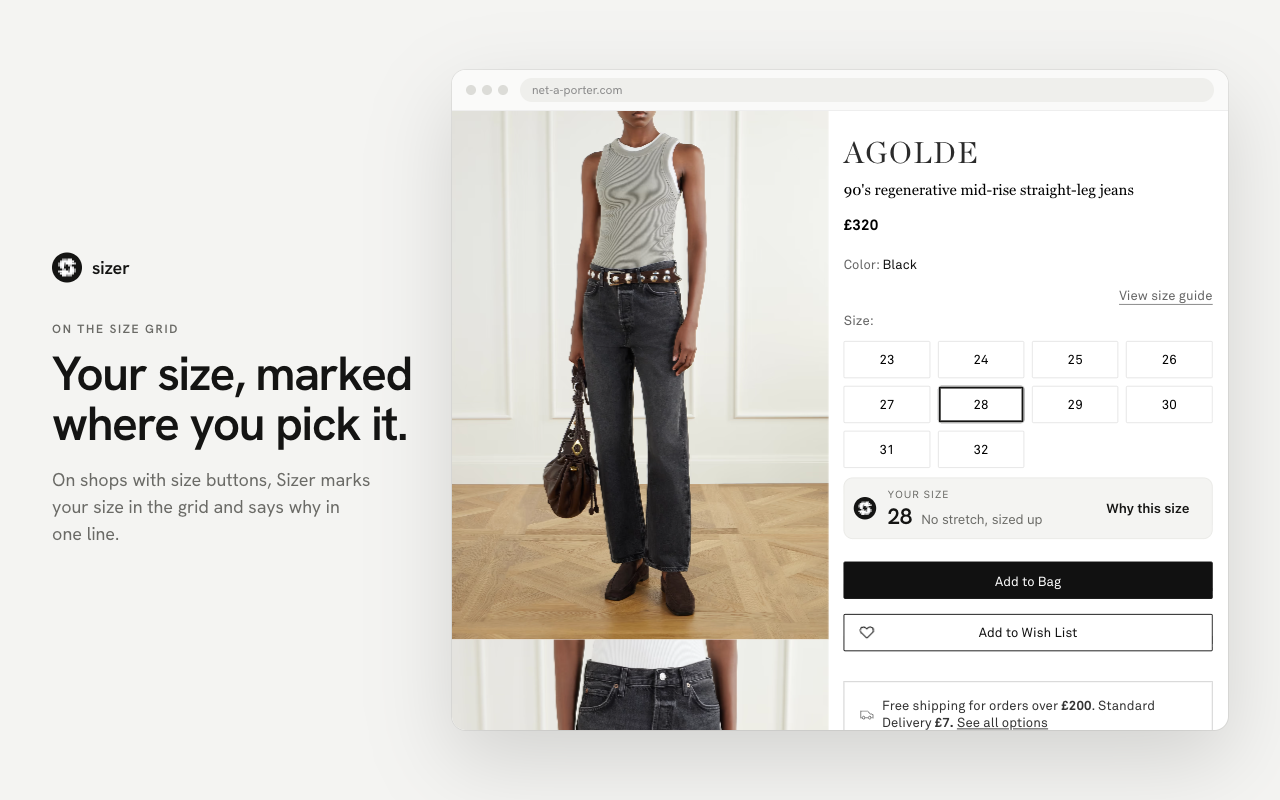
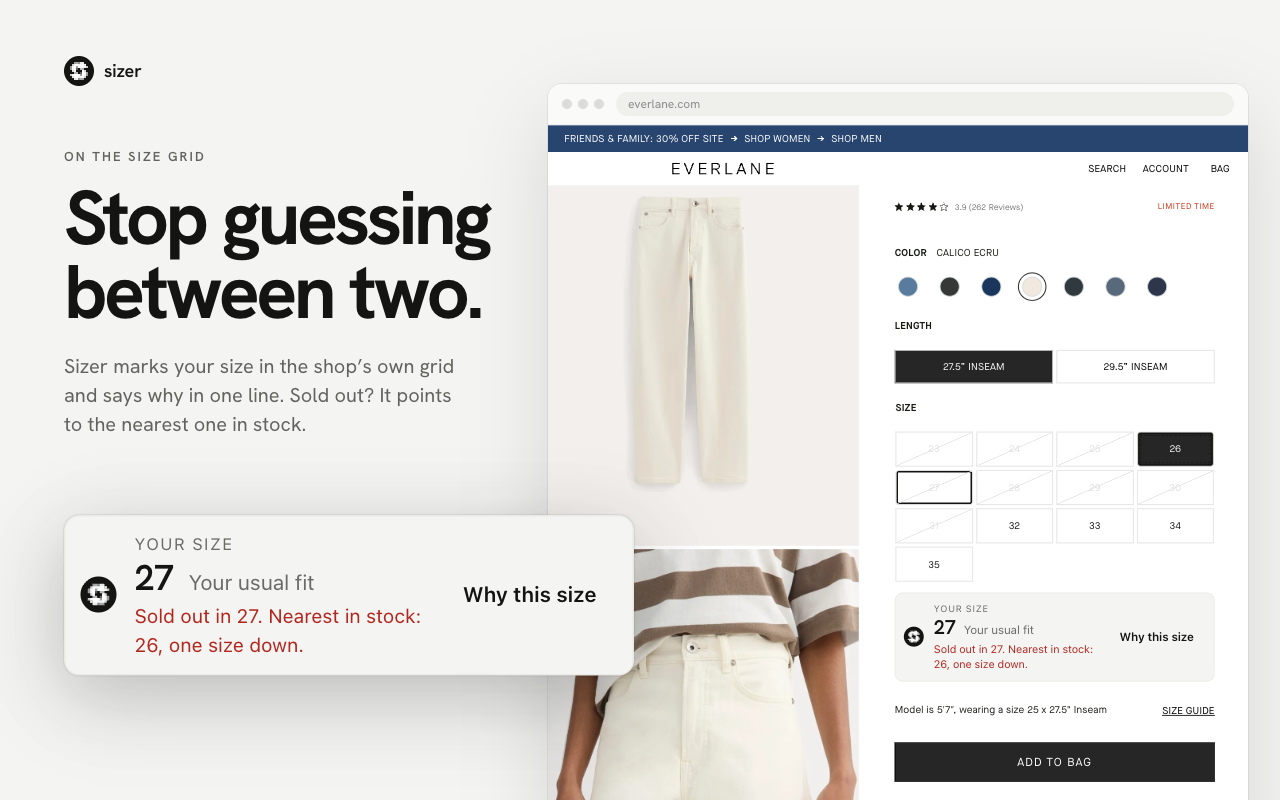
Store images lead with ordering one size, with Sizer's own answer magnified

diff --git a/store/frames.html b/store/frames.html
@@ -7,118 +7,161 @@
     Store and launch imagery at 1280×800. ?n=1..5 picks the screenshot, ?kind=promo|marquee|thumb the tiles
     (thumb is the 240 px Product Hunt thumbnail).
     Shots 1 to 4 frame a real shop page with Sizer running (store/render/, built by
-    tools/render-shop.py from the saved pages), zoomed onto the product details so the size reads at
-    a glance. Each crop starts below the shop's header, so no shop logo is in the picture; anything
-    personal that falls inside a crop (a seller's name) is blurred.
+    tools/render-shop.py from the saved pages), zoomed onto the product details. Each crop starts below
+    the shop's header, so no shop logo is in the picture; anything personal that falls inside a crop (a
+    seller's name) is blurred. The large card over the window is Sizer's own answer on that page,
+    copied from the page as it rendered and magnified, never retyped, so the picture says only what
+    Sizer said.
   -->
   <link rel="stylesheet" href="../ui/fonts.css">
   <style>
     :root {
-      --fog: #f4f4f2; --graphite: #141413; --muted: #6a6a66; --hair: #e9e9e6; --accent: #141413;
+      --fog: #f4f4f2; --graphite: #141413; --muted: #62625e; --hair: #e9e9e6; --accent: #141413;
       --sans: "Hanken Grotesk", "Helvetica Neue", Helvetica, Arial, sans-serif;
     }
     html, body { margin: 0; background: var(--fog); color: var(--graphite); font: 16px/1.5 var(--sans); -webkit-font-smoothing: antialiased; }
-    .frame { width: 1280px; height: 800px; display: grid; grid-template-columns: 360px 776px; gap: 40px; align-items: center; padding: 0 52px 0 52px; box-sizing: border-box; overflow: hidden; }
-    .mark { display: inline-grid; place-items: center; width: 30px; height: 30px; border-radius: 50%; background: var(--accent); overflow: hidden; vertical-align: middle; }
+    .frame { position: relative; width: 1280px; height: 800px; overflow: hidden; background: var(--fog); }
+    .frame.ink { background: var(--graphite); color: var(--fog); }
+    .brand { position: absolute; left: 64px; top: 56px; display: flex; align-items: center; gap: 10px; font: 600 18px/1 var(--sans); letter-spacing: -.01em; }
+    .mark { display: inline-grid; place-items: center; width: 30px; height: 30px; border-radius: 50%; background: var(--accent); overflow: hidden; }
+    .ink .mark { background: var(--fog); }
     .mark img { width: 28px; height: 28px; display: block; }
-    .word { font: 600 18px/1 var(--sans); letter-spacing: -.01em; margin-left: 10px; vertical-align: middle; }
-    .eyebrow { margin-top: 40px; font: 600 12px/1 var(--sans); letter-spacing: .14em; text-transform: uppercase; color: var(--muted); }
-    h1 { font: 600 48px/1.04 var(--sans); letter-spacing: -.03em; margin: 14px 0 18px; text-wrap: balance; }
-    p { margin: 0; font-size: 18px; line-height: 1.5; color: var(--muted); max-width: 340px; text-wrap: pretty; }
-    .window { width: 776px; height: 660px; background: #fff; border-radius: 14px; box-shadow: 0 30px 80px rgba(28, 27, 24, .16), 0 0 0 1px rgba(28, 27, 24, .07); overflow: hidden; position: relative; }
+    .ink .mark img { filter: invert(1); }
+    .copy { position: absolute; left: 64px; top: 150px; width: 452px; }
+    .eyebrow { font: 600 13px/1 var(--sans); letter-spacing: .16em; text-transform: uppercase; color: var(--muted); }
+    .ink .eyebrow, .ink p { color: #a9a9a3; }
+    h1 { font: 700 76px/.97 var(--sans); letter-spacing: -.048em; margin: 18px 0 24px; text-wrap: balance; }
+    p { margin: 0; font-size: 20px; line-height: 1.45; color: var(--muted); max-width: 400px; text-wrap: pretty; }
+    .window { position: absolute; left: 548px; top: 84px; width: 700px; height: 780px; background: #fff; border-radius: 14px; box-shadow: 0 30px 80px rgba(28, 27, 24, .14), 0 0 0 1px rgba(28, 27, 24, .07); overflow: hidden; }
     .chrome { height: 40px; border-bottom: 1px solid #eee; display: flex; align-items: center; padding: 0 14px; gap: 12px; font-size: 12px; color: #8a8a8a; background: #fafaf9; }
     .dots { display: flex; gap: 6px; } .dots i { width: 10px; height: 10px; border-radius: 50%; background: #dcdcd8; display: block; }
     .url { flex: 1; height: 24px; border-radius: 12px; background: #efefec; display: flex; align-items: center; padding: 0 12px; }
     .view { position: absolute; top: 41px; left: 0; right: 0; bottom: 0; overflow: hidden; }
     .view iframe { border: 0; position: absolute; top: 0; left: 0; transform-origin: 0 0; }
-    .view img { width: 100%; display: block; }
+    /* Sizer's answer from the page, magnified. */
+    .loupe { position: absolute; transform-origin: 0 0; opacity: 0; filter: drop-shadow(0 14px 26px rgba(20, 20, 19, .22)) drop-shadow(0 0 .6px rgba(20, 20, 19, .25)); }
+    .loupe.on { opacity: 1; }
+
+    .wall { position: absolute; left: 600px; top: 0; bottom: 0; width: 640px; display: flex; flex-wrap: wrap; align-content: center; gap: 6px 26px; font: 600 34px/1.25 var(--sans); letter-spacing: -.03em; }
+    .wall span { color: #5a5a55; white-space: nowrap; }
+    .wall span.b { color: var(--fog); }
+    .facts { position: absolute; left: 64px; bottom: 64px; display: flex; gap: 28px; font: 600 15px/1 var(--sans); color: var(--fog); }
+    .facts span::before { content: ""; display: inline-block; width: 6px; height: 6px; border-radius: 50%; background: var(--fog); margin-right: 10px; vertical-align: middle; }
 
     .tile { width: 440px; height: 280px; background: var(--accent); color: var(--fog); display: flex; flex-direction: column; justify-content: center; padding: 0 40px; box-sizing: border-box; }
     .tile .logo { width: 72px; height: 72px; display: block; }
     .marquee .logo { width: 120px; height: 120px; }
-    .tile .t { font: 600 34px/1.08 var(--sans); letter-spacing: -.015em; margin-top: 22px; }
+    .tile .t { font: 700 38px/1.02 var(--sans); letter-spacing: -.04em; margin-top: 22px; }
     .marquee { width: 1400px; height: 560px; padding: 0 110px; }
-    .marquee .t { font-size: 64px; max-width: 900px; }
+    .marquee .t { font-size: 76px; max-width: 900px; }
     .thumb { width: 240px; height: 240px; display: grid; place-items: center; background: var(--accent); }
     .thumb img { width: 176px; height: 176px; display: block; }
-    .marquee .sub { font-size: 21px; opacity: .8; margin-top: 18px; max-width: 760px; }
+    .marquee .sub { font-size: 22px; opacity: .8; margin-top: 20px; max-width: 760px; }
   </style>
 </head>
 <body>
   <script>
     const q = new URLSearchParams(location.search);
-    // [eyebrow, title, line, page, address bar, crop]. The crop is in the page's own pixels at a
-    // 1280 px wide window: x and y of the top left corner, and the width shown.
+    // [eyebrow, title, line, page, address bar, crop, loupe]. The crop is in the page's own pixels at a
+    // 1280 px wide window: x and y of the top left corner, and the width shown. The loupe copies one of
+    // Sizer's elements from the page (its id), lays it out w wide and sets it at `scale` with its top left
+    // at x, y in the frame.
     const FRAMES = {
-      1: ['On any product page', 'Your size, right under the size picker.', 'Sizer reads the brand’s chart, the fabric and the page’s fit notes. When your size is sold out, it names the nearest ones in stock.',
-          'render/zalando.html', 'zalando.co.uk', { x: 330, y: 236, w: 930 }],
-      2: ['Why this size', 'Every answer shows its working.', 'The pieces you own, the stretch, what the page and its buyers say, in plain words, with what moved the size.',
-          'render/asos.html', 'asos.com', { x: 300, y: 200, w: 980, open: 'why' }],
-      3: ['On the size grid', 'Your size, marked where you pick it.', 'On shops with size buttons, Sizer marks your size in the grid and says why in one line.',
-          'render/nap.html', 'net-a-porter.com', { x: 450, y: 140, w: 830 }],
-      4: ['Second-hand on Vinted', 'Does it fit? Checked against what you own.', 'Sizer reads the seller’s measurements and compares them with a piece you already wear. Missing one, it writes the message to ask.',
-          'render/items/vinted-store.html', 'vinted.co.uk', { x: 380, y: 640, w: 900, hide: ['[data-testid*="profile-username"]'], css: '[itemprop="description"] > div { max-height: none !important; } [itemprop="description"] > button { display: none !important; } .details-list--actions { display: none !important; } [class*="skeleton" i], [class*="placeholder" i] { visibility: hidden !important; }' }],
-      5: ['Your fit profile', 'Set up once, in under a minute.', 'Add your measurements, clothes that already fit, or both. Everything stays in your browser.',
-          'out/_options.png', 'Sizer · Your fit profile', null],
+      1: ['Before you add to bag', 'Order one size. Not two.', 'Sizer reads the brand’s chart, the fabric and the page’s fit notes, and puts your size right under the size picker.',
+          'render/zalando.html', 'zalando.co.uk', { x: 330, y: 236, w: 930 }, { id: 'sizer-inline', x: 404, y: 504, w: 400, scale: 1.6 }],
+      2: ['Why this size', 'Know why before you buy.', 'Every answer shows its working: the pieces you own, the stretch, what the page and its buyers say, and what moved the size.',
+          'render/asos.html', 'asos.com', { x: 300, y: 200, w: 980, open: 'why' }, null],
+      3: ['On the size grid', 'Stop guessing between two.', 'Sizer marks your size in the shop’s own grid and says why in one line. Sold out? It points to the nearest one in stock.',
+          'render/everlane-store.html', 'everlane.com', { x: 420, y: 130, w: 840 }, { id: 'sizer-inline', x: 64, y: 500, w: 380, scale: 1.5 }],
+      4: ['Second-hand', 'No returns? Check the fit first.', 'Sizer reads the seller’s measurements and checks them against a piece you already wear. Missing one, it writes the message to ask.',
+          'render/items/vinted-store.html', 'vinted.co.uk', { x: 380, y: 640, w: 900, hide: ['[data-testid*="profile-username"]'], css: '[itemprop="description"] > div { max-height: none !important; } [itemprop="description"] > button { display: none !important; } .details-list--actions { display: none !important; } [class*="skeleton" i], [class*="placeholder" i] { visibility: hidden !important; }' },
+          { id: 'sizer-inline', x: 420, y: 508, w: 330, scale: 1.65 }],
     };
+    // Shops Sizer runs on by itself (the manifest) and was checked on, on real product pages.
+    const SHOPS = ['Amazon', 'Zalando', 'ASOS', 'Zara', 'Vinted', 'eBay', 'Nordstrom', 'Net-a-Porter', 'Revolve', 'Selfridges', 'John Lewis', 'Urban Outfitters', 'Reformation', 'Madewell', 'Anthropologie', 'J.Crew', 'Aritzia', 'Everlane', 'Shopbop', 'SSENSE', 'Depop', 'Poshmark', 'Nike', 'Old Navy', 'Hollister', 'Express', 'Massimo Dutti', 'Pull&Bear', 'Bershka', 'Princess Polly', 'PrettyLittleThing', 'Fashion Nova'];
+    const BRIGHT = new Set(['Amazon', 'Zalando', 'ASOS', 'Zara', 'Vinted', 'eBay', 'Nordstrom', 'Revolve']);
+    const brand = '<div class="brand"><span class="mark"><img src="../brand/mark.svg" alt=""></span>sizer</div>';
     const kind = q.get('kind');
+    const n = q.get('n') || '1';
     if (kind === 'thumb') {
       document.write('<div class="thumb"><img src="../brand/logo.png" alt=""></div>');
     } else if (kind === 'promo' || kind === 'marquee') {
       document.write(`<div class="tile ${kind === 'marquee' ? 'marquee' : ''}"><img class="logo" src="../brand/logo.png" alt="">
-        <div class="t">Your size, on every product page.</div>
+        <div class="t">Order one size. Not two.</div>
         ${kind === 'marquee' ? '<div class="sub">Sizer reads the brand, the fabric and the fit notes, and puts your size under the size picker.</div>' : ''}</div>`);
-    } else {
-      const [eyebrow, title, sub, src, url, crop] = FRAMES[q.get('n') || 1];
-      document.write(`<div class="frame">
-        <div><span class="mark"><img src="../brand/mark.svg" alt=""></span><span class="word">sizer</span>
-          <div class="eyebrow">${eyebrow}</div><h1>${title}</h1><p>${sub}</p></div>
-        <div class="window"><div class="chrome"><div class="dots"><i></i><i></i><i></i></div><div class="url">${url}</div></div>
-          <div class="view">${crop ? `<iframe src="${src}" title="Preview" scrolling="no"></iframe>` : `<img src="${src}" alt="">`}</div></div>
+    } else if (n === '5') {
+      document.write(`<div class="frame ink">${brand}
+        <div class="copy"><div class="eyebrow">Your fit profile</div><h1>Set up once. Sized on 60+ shops.</h1>
+          <p>Add your measurements, clothes that already fit, or both. It takes a minute.</p></div>
+        <div class="wall">${SHOPS.map((s) => `<span class="${BRIGHT.has(s) ? 'b' : ''}">${s}</span>`).join('')}</div>
+        <div class="facts"><span>Free</span><span>No account</span><span>Your profile stays in your browser</span></div>
       </div>`);
-      if (crop) {
-        const view = document.querySelector('.view');
-        const frame = document.querySelector('iframe');
-        const s = view.clientWidth / crop.w;
-        // The page lays out at 1280 wide; the window shows crop.w of it, from crop.x, so fixed
-        // panels (the reasoning sheet) stay inside the visible part.
-        Object.assign(frame.style, { width: `${crop.x + crop.w}px`, height: `${view.clientHeight / s}px`, transform: `scale(${s}) translateX(${-crop.x}px)` });
-        frame.addEventListener('load', () => {
-          const doc = frame.contentDocument;
-          const style = doc.createElement('style');
-          // The shop's own pop-ups (country pickers, chat buttons) would sit over the page, and the
-          // render has no script to dismiss them.
-          style.textContent = `[role="dialog"], [aria-modal="true"], [class*="Dialog__overlay" i], [class*="modal-overlay" i], [id*="chat" i], [class*="chat-widget" i] { display: none !important; }
-            ${(crop.hide || []).map((sel) => `${sel} { filter: blur(6px) !important; }`).join('\n')}
-            ${crop.css || ''}`;
-          doc.head.appendChild(style);
-          // Floating shop buttons (feedback, chat, back to top) are small fixed boxes; Sizer's own are kept.
-          const tidy = () => doc.querySelectorAll('body *').forEach((el) => {
-            if (/^sizer/.test(el.id)) return;
-            const cs = frame.contentWindow.getComputedStyle(el);
-            if (cs.position === 'fixed' && el.getBoundingClientRect().width < 200) el.style.setProperty('display', 'none', 'important');
-          });
-          const place = () => { tidy(); frame.contentWindow.scrollTo(0, crop.y); };
-          place();
-          if (crop.open === 'why') {
-            const tryOpen = () => {
-              const host = doc.getElementById('sizer-inline') || doc.getElementById('sizer-pill');
-              const b = host && host.shadowRoot && host.shadowRoot.querySelector('[data-act="why"]');
-              if (!b) { setTimeout(tryOpen, 200); return; }
-              b.click();
-              // The sheet slides in with an animation that a scaled frame can leave on its first
-              // (transparent) frame, so the still shows it where it ends.
-              setTimeout(() => {
-                const panel = doc.getElementById('sizer-panel');
-                if (panel && panel.shadowRoot) panel.shadowRoot.appendChild(Object.assign(doc.createElement('style'), { textContent: '* { animation: none !important; }' }));
-                place();
-              }, 300);
-            };
-            setTimeout(tryOpen, 800);
-          }
-          setTimeout(place, 1500);
+    } else {
+      const [eyebrow, title, sub, src, url, crop, loupe] = FRAMES[n];
+      document.write(`<div class="frame">${brand}
+        <div class="copy"><div class="eyebrow">${eyebrow}</div><h1>${title}</h1><p>${sub}</p></div>
+        <div class="window"><div class="chrome"><div class="dots"><i></i><i></i><i></i></div><div class="url">${url}</div></div>
+          <div class="view"><iframe src="${src}" title="Preview" scrolling="no"></iframe></div></div>
+        ${loupe ? '<div class="loupe"></div>' : ''}
+      </div>`);
+      const view = document.querySelector('.view');
+      const frame = document.querySelector('iframe');
+      const s = view.clientWidth / crop.w;
+      // The page lays out at 1280 wide; the window shows crop.w of it, from crop.x, so fixed
+      // panels (the reasoning sheet) stay inside the visible part.
+      Object.assign(frame.style, { width: `${crop.x + crop.w}px`, height: `${view.clientHeight / s}px`, transform: `scale(${s}) translateX(${-crop.x}px)` });
+      frame.addEventListener('load', () => {
+        const doc = frame.contentDocument;
+        const style = doc.createElement('style');
+        // The shop's own pop-ups (country pickers, chat buttons) would sit over the page, and the
+        // render has no script to dismiss them.
+        style.textContent = `[role="dialog"], [aria-modal="true"], [class*="Dialog__overlay" i], [class*="modal-overlay" i], [id*="chat" i], [class*="chat-widget" i] { display: none !important; }
+          ${(crop.hide || []).map((sel) => `${sel} { filter: blur(6px) !important; }`).join('\n')}
+          ${crop.css || ''}`;
+        doc.head.appendChild(style);
+        // Floating shop buttons (feedback, chat, back to top) are small fixed boxes; Sizer's own are kept.
+        const tidy = () => doc.querySelectorAll('body *').forEach((el) => {
+          if (/^sizer/.test(el.id)) return;
+          const cs = frame.contentWindow.getComputedStyle(el);
+          if (cs.position === 'fixed' && el.getBoundingClientRect().width < 200) el.style.setProperty('display', 'none', 'important');
         });
-      }
+        const place = () => { tidy(); frame.contentWindow.scrollTo(0, crop.y); };
+        place();
+        if (crop.open === 'why') {
+          const tryOpen = () => {
+            const host = doc.getElementById('sizer-inline') || doc.getElementById('sizer-pill');
+            const b = host && host.shadowRoot && host.shadowRoot.querySelector('[data-act="why"]');
+            if (!b) { setTimeout(tryOpen, 200); return; }
+            b.click();
+            // The sheet slides in with an animation that a scaled frame can leave on its first
+            // (transparent) frame, so the still shows it where it ends.
+            setTimeout(() => {
+              const panel = doc.getElementById('sizer-panel');
+              if (panel && panel.shadowRoot) panel.shadowRoot.appendChild(Object.assign(doc.createElement('style'), { textContent: '* { animation: none !important; }' }));
+              place();
+            }, 300);
+          };
+          setTimeout(tryOpen, 800);
+        }
+        // The loupe: Sizer's element as the page rendered it, styles and all, at a larger scale.
+        if (loupe) {
+          const copy = () => {
+            const host = doc.getElementById(loupe.id);
+            if (!host || !host.shadowRoot || !host.shadowRoot.innerHTML.trim()) { setTimeout(copy, 200); return; }
+            const box = document.querySelector('.loupe');
+            // Laid out at w, the width of the card on a narrower page, so it wraps as it would there.
+            const inner = document.createElement('div');
+            // The card's :host resets display to inline, where a width does nothing.
+            inner.style.cssText = `display: block; width: ${loupe.w}px;`;
+            inner.attachShadow({ mode: 'open' }).innerHTML = `${host.shadowRoot.innerHTML}<style>* { animation: none !important; transition: none !important; } :host > div { margin: 0 !important; }</style>`;
+            box.replaceChildren(inner);
+            Object.assign(box.style, { left: `${loupe.x}px`, top: `${loupe.y}px`, transform: `scale(${loupe.scale})` });
+            box.classList.add('on');
+          };
+          setTimeout(copy, 600);
+        }
+        setTimeout(place, 1500);
+      });
     }
   </script>
 </body>

diff --git a/store/LISTING.md b/store/LISTING.md
@@ -98,15 +98,18 @@ Size charts are approximate and brands change them, so check the brand’s guide
 
 **Graphic assets:**
 - Icon: `icons/128.png`
-- Screenshots (1280×800), in this order: `store/out/screenshot-1.png` (Zalando: fit note read,
-  sold out, nearest in stock), `screenshot-2.png` (ASOS: the reasoning sheet), `screenshot-3.png`
-  (Net-a-Porter: the answer marked in the size grid), `screenshot-4.png` (Vinted: the seller's
-  measurements against a pair you own), `screenshot-5.png` (fit profile). Each is a headline beside
-  a browser window showing a real page with Sizer running, zoomed onto the product details and
-  framed below the shop's header on purpose so no shop logo appears; the description's "not
-  affiliated" line covers the shop names that remain in the text. Rebuild them with
-  `store/frames.html?n=1..5` at 1280×800 after `tools/render-shop.py` (the Vinted page renders
-  from a capture kept out of the repo, since it carries a seller's listing).
+- Screenshots (1280×800), in this order: `store/out/screenshot-1.png` (Zalando: "Order one size. Not
+  two.", the fit note read, sold out, nearest in stock), `screenshot-2.png` (ASOS: the reasoning
+  sheet), `screenshot-3.png` (Everlane: the answer marked in the size grid, sold out, nearest in stock), `screenshot-4.png`
+  (Vinted: the seller's measurements against a pair you own), `screenshot-5.png` (fit profile: shops
+  Sizer was checked on, free, no account, profile stays in the browser). Shots 1 to 4 are a headline
+  beside a browser window showing a real page with Sizer running, zoomed onto the product details and
+  framed below the shop's header on purpose so no shop logo appears; the large card over the window is
+  Sizer's own answer copied from that page and magnified, never retyped. The description's "not
+  affiliated" line covers the shop names in the text and on shot 5. Rebuild them with
+  `store/frames.html?n=1..5` at 1280×800 after `tools/render-shop.py` (the Vinted and Everlane pages
+  render from captures kept out of the repo: the Vinted one carries a seller's listing, and
+  Net-a-Porter, the earlier grid shot, now refuses its stylesheets to a saved copy).
 - Small promo tile (440×280): `store/out/promo-440x280.png`
 - Marquee (1400×560): `store/out/marquee-1400x560.png`
 
